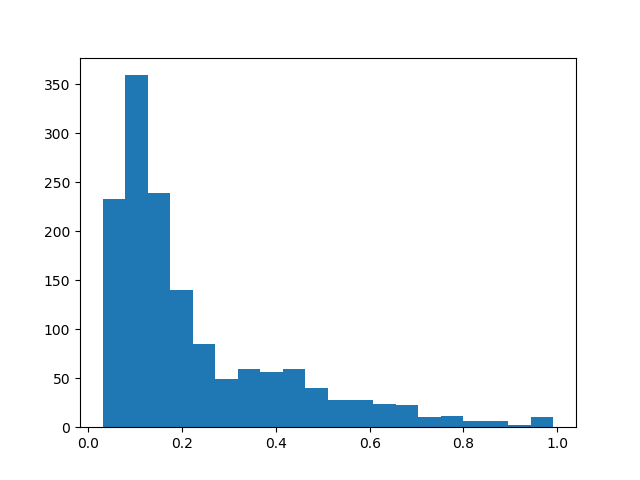
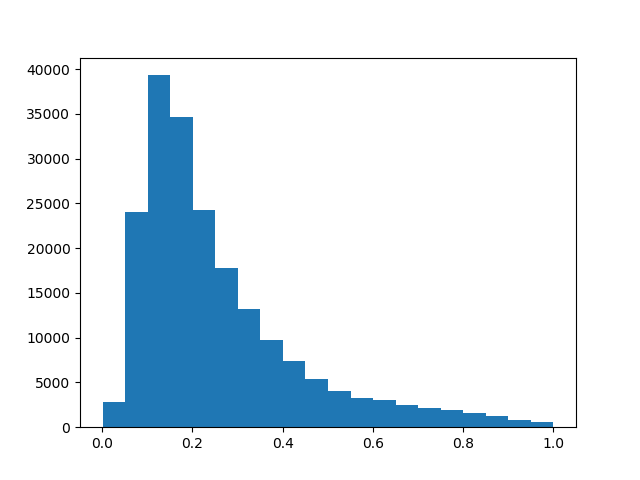
IR-1 all volumes task 1

diff --git a/ir1/main.py b/ir1/main.py
@@ -4,10 +4,13 @@ from lxml import etree
 import re
 import matplotlib.pyplot as plt
 import math
+import nltk
+from nltk.tokenize import word_tokenize, RegexpTokenizer
+nltk.download('punkt')
 
 DATA_DIR = "data/"
 VOLUME_PREFIX = "byweb."
-
+VOLUMES_COUNT = 10
 class Document:
     def __init__(self, content, url, id, decode=False):
         self.id = id
@@ -28,6 +31,7 @@ class Document:
     def print_text(self):
         print(self.clean_text())
 
+    # can throw exception
     def clean_text(self):
         soup = BeautifulSoup(self.content, 'html.parser')
 
@@ -35,10 +39,12 @@ class Document:
         t = re.sub("(<!--.*?-->)", "", text, flags=re.DOTALL)
         return t
 
+    # can throw exception
     def print_prettify(self):
         soup = BeautifulSoup(self.content, 'html.parser')
         print(soup.prettify())
 
+    # can throw exception
     def make_html(self):
         f = open("res/html/" + "doc_" + str(self.id) + ".html", "w")
         soup = BeautifulSoup(self.content, 'html.parser')
@@ -58,29 +64,39 @@ class Document:
         self.content = base64.b64decode(self.content)
 
 class DocumentStatsCollector:
-    def __init__(self):
+    def __init__(self, remove_punkt=False):
+        self.handled = 0
         self.documents_count = 0
+        self.completed_with_errors = 0
         self.documents_word_lengths = []
         self.documents_byte_html_lengths = []
         self.documents_byte_html_no_comments_lengths = []
         self.documents_byte_text_lengths = []
+        self.remove_punkt = remove_punkt
 
     def handle(self, document):
+        self.handled += 1
+        print(str(self.handled) + " docs handled...")
+
+        try:
+            clean_text = document.clean_text()
+        except:
+            self.completed_with_errors += 1
+            return
+
         self.documents_count += 1
         self.documents_byte_html_lengths.append(len(document.content.encode("utf-8")))
         no_comments_text = re.sub("(<!--.*?-->)", "", document.content, flags=re.DOTALL)
         self.documents_byte_html_no_comments_lengths.append(len(no_comments_text.encode("utf-8")))
-        text = document.clean_text()
-        self.documents_byte_text_lengths.append(len(text.encode("utf-8")))
-        self.documents_word_lengths.append(len(text.split()))
+
+        if self.remove_punkt:
+            tokenizer = RegexpTokenizer(r'\w+')
+            clean_text = " ".join(tokenizer.tokenize(clean_text))
+        self.documents_byte_text_lengths.append(len(clean_text.encode("utf-8")))
+        self.documents_word_lengths.append(len(clean_text.split()))
+
 
     def stats(self):
-        print("Documents count: " + str(self.documents_count))
-        print("Average words count: " + str(sum(self.documents_word_lengths) / self.documents_count))
-        print("Average bytes count: " + str(sum(self.documents_byte_text_lengths) / self.documents_count))
-        print("Average text/(text+HTML) value: " + str(sum(self.documents_byte_text_lengths) / sum(self.documents_byte_html_lengths)))
-        print("Average text/(text+HTML) value(no comments in HTML): " + str(sum(self.documents_byte_text_lengths) / sum(self.documents_byte_html_no_comments_lengths)))
-
         bounds_words = [2000, 10000, 0xffffffff]
         bounds_bytes = [20000, 50000, 0xffffffff]
 
@@ -99,11 +115,11 @@ class DocumentStatsCollector:
         plot_hist(th_ratio, "th_ratio_distribution_no_comments")
 
         f = open("res/task_1_summary.txt", "w")
-        f.write("Documents count: " + str(self.documents_count))
-        f.write("Average words count: " + str(sum(self.documents_word_lengths) / self.documents_count))
-        f.write("Average bytes count: " + str(sum(self.documents_byte_text_lengths) / self.documents_count))
-        f.write("Average text/(text+HTML) value: " + str(sum(self.documents_byte_text_lengths) / sum(self.documents_byte_html_lengths)))
-        f.write("Average text/(text+HTML) value(no comments in HTML): " + str(sum(self.documents_byte_text_lengths) / sum(self.documents_byte_html_no_comments_lengths)))
+        f.write("Documents count: " + str(self.documents_count + self.completed_with_errors) + "\n")
+        f.write("Average words count: " + str(sum(self.documents_word_lengths) / self.documents_count) + "\n")
+        f.write("Average bytes count: " + str(sum(self.documents_byte_text_lengths) / self.documents_count) + "\n")
+        f.write("Average text/(text+HTML) value: " + str(sum(self.documents_byte_text_lengths) / sum(self.documents_byte_html_lengths)) + "\n")
+        f.write("Average text/(text+HTML) value(no comments in HTML): " + str(sum(self.documents_byte_text_lengths) / sum(self.documents_byte_html_no_comments_lengths)) + "\n")
         f.close()
 
 
@@ -111,26 +127,6 @@ def plot_hist(data, file_name, cols_num=20):
     plt.clf()
     plt.hist(data, cols_num)
     plt.savefig("res/plots/" + file_name + ".png")
-
-
-def extract_documents(file_name, decode=False):
-    xml_tree = etree.parse(DATA_DIR + file_name + ".xml")
-    root = xml_tree.getroot()
-    documents = []
-    for document in root.getchildren():
-        content, url, id = "", "", ""
-
-        for property in document.getchildren():
-            if property.tag == 'docID':
-                id = property.text
-            elif property.tag == 'docURL':
-                url = property.text
-            else:
-                content = property.text
-
-        documents.append(Document(content, url, id, decode=decode))
-
-    return documents
 
 
 def process_documents(file_name, handler):
@@ -146,16 +142,15 @@ def process_documents(file_name, handler):
                 url = property.text
             else:
                 content = property.text
-        if int(id) > 10000:
-            break
+
         document = Document(content, url, id, decode=True)
         handler.handle(document)
 
 
 if __name__ == '__main__':
-    stats_collector = DocumentStatsCollector()
-    for volume in range(1):
-        print("Process volume " + str(volume))
+    stats_collector = DocumentStatsCollector(remove_punkt=False)
+    for volume in range(VOLUMES_COUNT):
+        print("Process volume " + str(volume + 1) + "...")
         process_documents(VOLUME_PREFIX + str(volume), stats_collector)
 
     stats_collector.stats()
